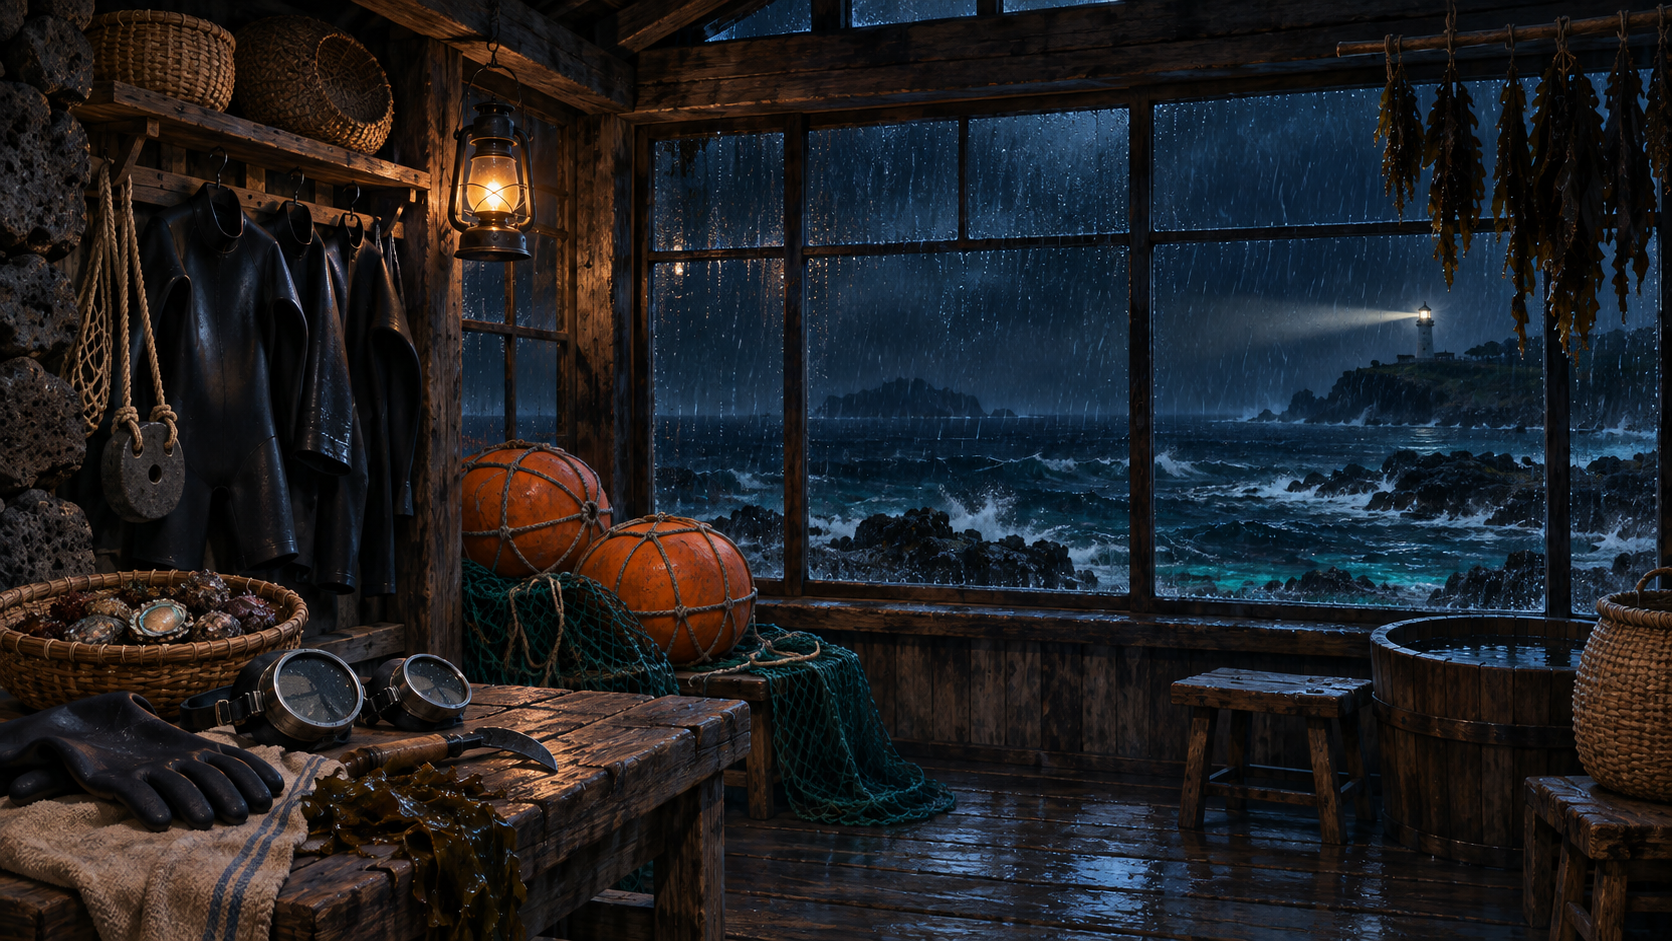
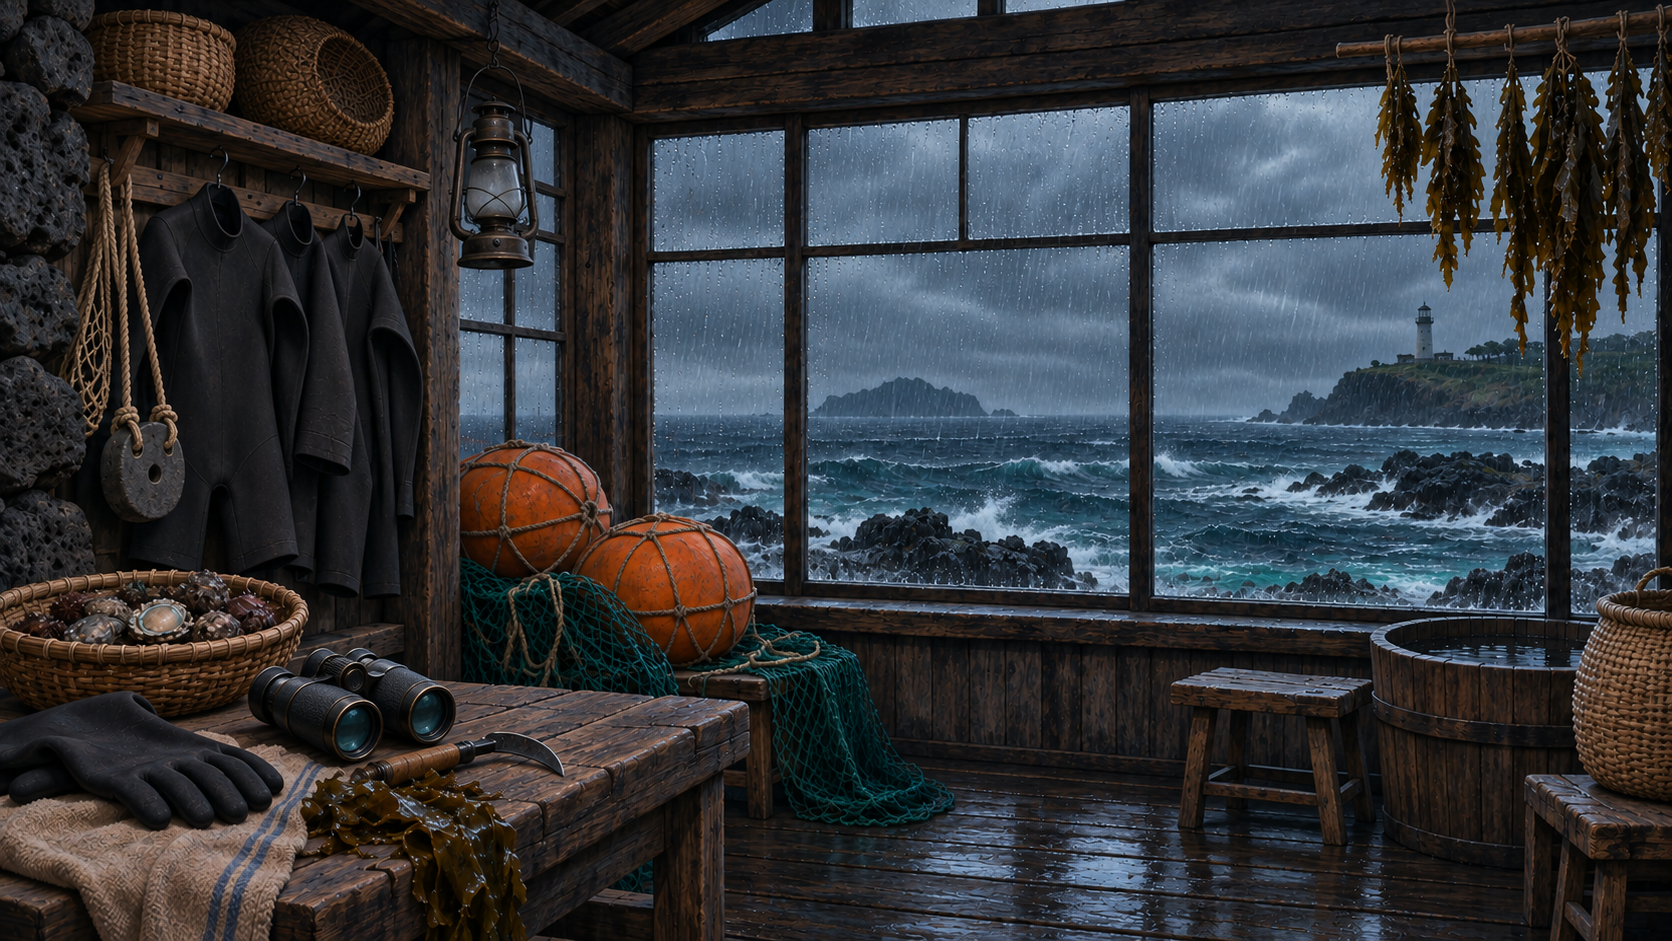
feat: 마지막 불빛 용의자 반응과 작업장 단서 보강

diff --git a/js/scenario-lighthouse.js b/js/scenario-lighthouse.js
@@ -19,10 +19,13 @@ SCENARIOS.lighthouse = {
     oil_spill: { name: '쏟아진 램프 기름', icon: 'can', desc: '램프실 아래 바닥에 기름이 쏟아져 있고, 그 위를 밟고 나간 장화 자국이 있다.' },
     camera: { name: '서준의 카메라', icon: 'camera', desc: '민박 침대 위의 카메라. 메모리 카드에 어젯밤 찍은 사진이 남아 있다.' },
     shadow_photo: { name: '두 그림자 사진', icon: 'photo', desc: '밤 11시 40분, 불 꺼진 등대 꼭대기에 사람 그림자 두 개가 찍혀 있다. 한 명은 체격이 다부지다.' },
-    rope: { name: '낯선 밧줄', icon: 'rope', desc: '선착장 기둥에 감긴 파란 합성 밧줄. 섬 어선은 마 밧줄만 쓴다. 바다 쪽 끝이 잘려 있다.' },
+    rope: { name: '낯선 밧줄', icon: 'rope', desc: '선착장 기둥에 감긴 파란 합성 밧줄. 섬 어선은 마 밧줄만 쓴다. 물때 하나 없는 새것이고, 바다 쪽 끝이 칼로 잘려 있다.' },
     fuel_can: { name: '외지 연료통', icon: 'can', desc: '방수포 아래 숨겨진 연료통 여섯 개. 섬에서 쓰지 않는 상표이고 겉에 외국어가 적혀 있다.' },
-    binoculars: { name: '창가의 쌍안경', icon: 'lens', desc: '해녀 작업장 탁자의 쌍안경. 등대 앞 암초 쪽 바다에 초점이 맞춰져 있다.' },
-    signal: { name: '해녀의 증언', icon: 'voice', desc: '"그날 밤 앞바다에서 불빛이 세 번씩 깜박였어. 만석이 영감이 그 배를 지켜봐 달라고 부탁했지."' },
+    binoculars: { name: '탁자 위 쌍안경', icon: 'lens', desc: '해녀 작업장 탁자의 쌍안경. 등대 앞 암초 쪽 바다에 초점이 맞춰져 있다.' },
+    signal: { name: '해녀의 증언', icon: 'voice', desc: '"그날 밤 앞바다에서 불빛이 세 번씩 깜박였어. 만석 영감이 그 배를 지켜봐 달라고 부탁했지."' },
+    dry_gear: { name: '말라 있는 물질 도구', icon: 'glove', desc: '물옷과 테왁, 망사리가 바싹 말라 있다. 어제는 아무도 물질을 나가지 않았다.' },
+    lantern: { name: '바닥난 랜턴', icon: 'lamp', desc: '작업장 랜턴의 기름이 바닥나 있다. 누군가 밤새 이곳에 있었다.' },
+    old_accident: { name: '30년 전 사고', icon: 'voice', desc: '30년 전 문정희의 남편이 탄 배가 등대 앞 암초에 걸렸다. 강만석의 신고가 늦었다는 소문이 돌았다.' },
     resort_plan: { name: '리조트 조감도', icon: 'doc', desc: '등대 자리에 호텔이 그려진 "해무도 리조트" 조감도. 투자 유치 기한은 이번 달 말이다.' },
     oily_boots: { name: '기름 묻은 장화', icon: 'shoe', desc: '이장 집 현관의 장화. 밑창에 등대 램프 기름이 묻어 있다.' },
     torn_page: { name: '찢긴 일지 페이지', icon: 'doc', desc: '"덕배가 부른 배가 15일 밤 들어온다. 리조트 돈을 마련하려는 밀수선이다. 불이 꺼지면 암초 때문에 들어오지 못한다." 15일은 사건 당일이다.' },
@@ -43,7 +46,7 @@ SCENARIOS.lighthouse = {
       id: 'dock', name: '선착장', art: 'dock',
       desc: '섬의 하나뿐인 선착장이다. 파도가 방파제를 넘어온다.',
       spots: [
-        { id: 'rope', label: '밧줄', x: 38, y: 85, medium: true, clue: 'rope', text: '기둥에 굵은 파란 합성 밧줄이 감겨 있다. 섬 어선은 모두 마 밧줄을 쓴다. 바다 쪽 끝은 칼로 자른 듯 깨끗하다.' },
+        { id: 'rope', label: '밧줄', x: 38, y: 85, medium: true, clue: 'rope', text: '기둥에 굵은 파란 합성 밧줄이 감겨 있다. 섬 어선은 모두 마 밧줄을 쓴다. 물때 하나 없는 새 밧줄이다. 바다 쪽 끝은 칼로 자른 듯 깨끗하다.' },
         { id: 'fuel', label: '방수포', x: 14, y: 72, medium: true, clue: 'fuel_can', text: '방수포 아래 연료통 여섯 개가 숨겨져 있다. 섬에서 쓰지 않는 상표이고 겉에 외국어가 적혀 있다.' },
         { id: 'boat', label: '어선', x: 61, y: 57, medium: true, text: '마을 어선이다. 폭풍에 대비해 단단히 묶여 있다.' },
       ],
@@ -63,7 +66,8 @@ SCENARIOS.lighthouse = {
       spots: [
         { id: 'window', label: '창문', x: 68, y: 35, medium: true, text: '창으로 등대와 그 앞 암초가 한눈에 보인다. 등대 불이 없으면 밤에는 암초가 보이지 않는다.' },
         { id: 'binoculars', label: '쌍안경', x: 26, y: 76, medium: true, clue: 'binoculars', text: '탁자 위에 쌍안경이 놓여 있다. 초점이 등대 앞 암초 쪽 바다에 맞춰져 있다.' },
-        { id: 'gear', label: '물질 도구', x: 25, y: 44, medium: true, text: '테왁과 망사리가 바싹 말라 있다. 어제는 아무도 물질을 나가지 않았다.' },
+        { id: 'lantern', label: '랜턴', x: 29, y: 18, medium: true, clue: 'lantern', text: '기둥에 걸린 랜턴이다. 기름이 바닥나 있다. 밤새 켜 두었던 모양이다.' },
+        { id: 'gear', label: '물질 도구', x: 25, y: 44, medium: true, clue: 'dry_gear', text: '물옷과 테왁, 망사리가 바싹 말라 있다. 어제는 아무도 물질을 나가지 않았다.' },
       ],
     },
     {
@@ -86,8 +90,11 @@ SCENARIOS.lighthouse = {
       reactions: {
         torn_log: { text: '…맞아요, 제가 찢었어요. 할아버지가 일부러 불을 껐다는 게 알려지면 할아버지가 나쁜 사람이 될 것 같았어요. 여기요, 읽어 보세요.', gives: 'torn_page' },
         lamp_valve: { text: '할아버지는 40년 동안 한 번도 불을 끈 적이 없어요. 그런데 왜 그날만….' },
-        resort_plan: { text: '이장님은 할아버지가 등대를 내놓지 않는다고 매일 찾아왔어요.' },
-        shadow_photo: { text: '두 사람이요? 그럼 할아버지 혼자가 아니었다는 거죠?' },
+        resort_plan: { text: '이장님은 매일 찾아왔어요. 땅을 팔면 육지 대학 학비도 해결된다고요. 할아버지는 등대를 지킬 사람이 저밖에 없다고 하셨지만… 솔깃했던 건 사실이에요.' },
+        broken_rail: { text: '그날 저녁 할아버지랑 크게 다투고 나올 때까진 멀쩡했어요. …정말이에요. 문을 세게 닫고 나오긴 했지만요.' },
+        oil_spill: { text: '그 장화 자국이요? 제 건 아니에요. 저는 그날 운동화를 신었어요.' },
+        shadow_photo: { text: '두 사람이요? 그럼 할아버지 혼자가 아니었다는 거죠? …저는 그 전에 나왔어요.' },
+        camera: { text: '그 사람 카메라를 왜 저한테…. 등대 구경시켜 준 것뿐이에요. 할아버지는 그것도 싫어하셨지만요.' },
       },
       fallback: '모르겠어요. 그냥 내버려 두세요.',
       pressed: '왜 자꾸 그걸 들이미세요? 제가 할아버지를 어떻게 했다고 생각하시는 거예요?',
@@ -96,15 +103,19 @@ SCENARIOS.lighthouse = {
       id: 'deokbae', name: '오덕배', role: '이장',
       portrait: { image: 'assets/scenario3/characters/deokbae.png' },
       intro: '섬의 이장이다. 사람 좋은 웃음을 짓지만 눈은 웃지 않는다.',
-      talk: '만석이 형님이 연세가 있으니 계단에서 발을 헛디딘 거지요. 리조트요? 섬 살리자는 일에 반대한 건 형님 하나였소. 그렇다고 사람을 해칠 리가 있나.',
+      talk: '만석이 형님이 연세가 있으니 계단에서 발을 헛디딘 거지요. 이장으로서 안타까울 따름이오.',
       reactions: {
-        resort_plan: { text: '젊은 애들은 다 떠나는데 뭐라도 해야 할 것 아니오.' },
+        resort_plan: { text: '젊은 애들은 다 떠나는데 뭐라도 해야 할 것 아니오. 반대한 건 형님 하나였소. 그렇다고 사람을 해칠 리가 있나.' },
         oily_boots: { text: '그건… 우리 집 경운기 기름이오. 등대랑은 상관없소.', again: '경운기 기름이라 하지 않았소! …냄새까지 맡아 봤단 말이오?' },
         oil_spill: { text: '등대 바닥에 기름이야 늘 있지. 형님이 칠칠치 못해서.' },
+        lamp_valve: { text: '밸브가 잠겨 있었다고? …형님이 직접 잠갔겠지. 난 그날 등대 근처에도 안 갔소.', again: '안 갔다니까! …그, 그 밸브가 뻑뻑해서 손으로는 잘 안 열린다는 것도 난 모르오.' },
         rope: { text: '외지 배가 폭풍을 피해 잠깐 묶었다 간 거겠지.' },
         fuel_can: { text: '그건 리조트 공사에 쓰려고 들여온 거요. 문제 있소?' },
         signal: { text: '불빛? 폭풍 속에 고깃배 하나가 헤맨 거겠지.' },
+        binoculars: { text: '정희 그 양반, 30년 전 남편 잃고 형님을 평생 원망했소. 그 쌍안경으로 뭘 봤는지 물어보시오.', gives: 'old_accident' },
+        camera: { text: '외지 사진쟁이가 손녀랑 붙어 다녀서 형님 속깨나 끓였지. 그 사진쟁이한테나 물어보시오.' },
         shadow_photo: { text: '그 시간엔 집에서 자고 있었소. 사진이 이렇게 흐린데 누군지 어떻게 아오.' },
+        torn_log: { text: '"그 배"? …폭풍에 무슨 배가 온다고. 형님이 요즘 정신이 오락가락했소.', again: '배 얘기는 그만하시오! …그나저나 찢긴 장은 어디 있소? 누가 가져갔소?' },
         torn_page: { text: '…형님이 노망이 나서 헛소리를 쓴 거요. 밀수선이라니.' },
       },
       fallback: '이장으로서 할 말은 다 했소.',
@@ -114,15 +125,21 @@ SCENARIOS.lighthouse = {
       id: 'jeonghui', name: '문정희', role: '해녀',
       portrait: { image: 'assets/scenario3/characters/jeonghui.png' },
       intro: '50년 동안 물질을 해 온 해녀다. 등대지기와 앙숙으로 소문났다.',
-      talk: '그 영감이랑은 평생 싸웠지. 그래도 죽으라고 빈 적은 없어. 어젯밤 등대 근처에 있었던 건 맞지만 안에는 안 들어갔어.',
+      talk: '만석 영감이랑은 평생 싸웠지. 그래도 죽으라고 빈 적은 없어. 어제는 물질 마치고 일찍 잤어.',
       reactions: {
-        fuel_can: { text: '그 통… 맞아, 그날 밤 그 배에서 내린 거야. 앞바다에서 불빛이 세 번씩 깜박였어. 영감이 그 배를 지켜봐 달라고 부탁해서 등대 아래에서 보고 있었지.', gives: 'signal' },
-        binoculars: { text: '그래, 내 거야. 그날 밤 바다를 보고 있었어. 선착장에 뭐가 남았는지는 봤나?' },
-        rope: { text: '섬 사람은 그런 밧줄 안 써. 외지 배야.' },
+        fuel_can: { text: '그 통… 지난달에 그 배가 내려놓고 간 거야. 그날 해 질 녘에 만석 영감이 찾아와서 오늘 밤 그 배가 또 온다고, 지켜봐 달라더군. 밤에 앞바다에서 불빛이 세 번씩 깜박였어. 큰 배는 암초 앞에서 멈춰 섰지.', gives: 'signal' },
+        binoculars: { text: '그래, 내 거야. 그날 밤 여기서 바다를 보고 있었어. 선착장에 뭐가 남았는지는 봤나?' },
+        dry_gear: { text: '…폭풍에 물질은 무슨. 그래, 둘러댔어. 종일 여기 있었어. 해 질 녘에 만석 영감이 왔을 때도.', again: '말했잖아! 더 캐묻지 마.' },
+        lantern: { text: '밤새 바다를 봤으니까. 영감이 부탁한 일이야. …더는 묻지 마.' },
+        lamp_valve: { text: '불이 꺼지는 건 봤어. 누가 껐는지는… 영감 체면도 있고, 내가 말할 일이 아니야.' },
+        broken_rail: { text: '불이 꺼지고 나서 걱정이 돼서 등대 아래까지 갔어. 위에서 고함 소리가 났어. 바람 소리인 줄 알았지. …올라가 보진 않았어.' },
+        shadow_photo: { text: '다부진 체격이면 나라는 거야? 물질 50년이면 어깨가 이렇게 돼. …어두워서 누군지는 못 봤어.' },
+        rope: { text: '섬 사람은 그런 밧줄 안 써. 외지 배야. 난 몰라.', again: '…그래, 선착장에 있었어! 불 꺼지고 작은 보트 하나가 붙더니, 날 보고는 밧줄을 끊고 달아났어. 이제 됐어?' },
         torn_log: { text: '그 영감, 일지 하나는 꼬박꼬박 썼지.' },
+        old_accident: { text: '…그 얘길 누가 했어? 덕배지? 그래, 평생 원망했어. 그렇다고 죽이진 않아!' },
       },
       fallback: '그런 건 몰라.',
-      pressed: '또 그거야? 내가 그 영감을 밀었다고 보는 거지?',
+      pressed: '또 그거야? 내가 만석 영감을 밀었다고 보는 거지?',
     },
     {
       id: 'seojun', name: '서준', role: '사진작가',
@@ -130,9 +147,11 @@ SCENARIOS.lighthouse = {
       intro: '폭풍 사진을 찍으러 온 외지 사진작가다. 카메라 가방을 끌어안고 있다.',
       talk: '사흘 전에 등대에 몰래 들어간 건 사과드릴게요. 하지만 어젯밤에는 민박 창문에서 사진만 찍었어요.',
       reactions: {
-        camera: { text: '…보여 드릴게요. 11시 40분쯤 불이 꺼지고 나서 찍은 거예요. 꼭대기에 사람이 둘 있었어요. 무서워서 말을 못 했어요.', gives: 'shadow_photo' },
+        camera: { text: '…보여 드릴게요. 11시 40분쯤 불이 꺼지고 나서 찍은 거예요. 꼭대기에 사람이 둘 있었어요. 처음엔 그중 하나가 하늘 씨일까 봐 말을 못 했어요.', gives: 'shadow_photo' },
+        shadow_photo: { text: '저는 그 시간에 민박에 있었어요. 이 사진이 증거예요.', again: '…잡지사에서 연락이 오긴 했어요. 그래도 안 팔았어요.' },
+        broken_rail: { text: '그 난간… 사흘 전에 하늘 씨가 등대를 구경시켜 줬다가 할아버지께 들켰어요. 끌려 나가면서 붙잡았던 데예요. 그땐 부러지지 않았어요. 다시는 하늘 씨를 만나지 말라고 하셨죠.' },
         lamp_valve: { text: '제가 들어갔을 때는 불이 잘 켜져 있었어요. 밸브에는 손도 안 댔어요.' },
-        torn_log: { text: '일지는 본 적 없어요.' },
+        torn_log: { text: '일지는 본 적 없어요. …설마 하늘 씨가 뭘 숨긴 건 아니죠?' },
       },
       fallback: '그건 잘 모르겠어요.',
       pressed: '그건 아까 말씀드렸잖아요. 외지 사람이라서 저부터 의심하시는 거예요?',
@@ -150,7 +169,7 @@ SCENARIOS.lighthouse = {
         { id: 'mansuk', label: '강만석' }, { id: 'hanul', label: '강하늘' }, { id: 'deokbae', label: '오덕배' }, { id: 'jeonghui', label: '문정희' }, { id: 'seojun', label: '서준' },
       ] },
       { key: 'motive', label: '동기', options: [
-        { id: 'leave', label: '섬을 떠나려고' }, { id: 'resort', label: '등대 철거 반대를 꺾으려고' }, { id: 'smuggle', label: '불을 다시 켜 밀수선을 들이려고' }, { id: 'grudge', label: '오랜 다툼 끝의 원한' }, { id: 'scoop', label: '특종 사진을 얻으려고' },
+        { id: 'leave', label: '섬을 떠나려고' }, { id: 'smuggle', label: '밀수선을 섬에 들이려고' }, { id: 'grudge', label: '남편을 잃은 원한 때문에' }, { id: 'romance', label: '사랑을 지키려고' },
       ] },
     ],
     answer: { culprit: 'deokbae', lights: 'mansuk', motive: 'smuggle' },
@@ -160,7 +179,8 @@ SCENARIOS.lighthouse = {
     success: [
       '오덕배는 한참 동안 장화를 내려다보다가 입을 열었다.',
       '그 밤 섬으로 들어오려던 배는 리조트 자금을 마련하려고 오덕배가 불러들인 밀수선이었다. 등대 불이 꺼지면 배는 암초 때문에 섬에 다가올 수 없었다.',
-      '불을 끈 사람은 강만석 자신이었다. 오덕배는 불을 다시 켜려고 등대에 올라갔고, 몸싸움 끝에 그를 계단 아래로 밀었다.',
+      '큰 배 대신 작은 보트 하나가 선착장에 닿았지만, 그곳을 지키던 문정희를 보고 밧줄을 끊고 달아났다.',
+      '불을 끈 사람은 강만석 자신이었다. 오덕배는 불을 다시 켜려고 등대에 올라갔고, 몸싸움 끝에 그를 계단 아래로 밀었다. 겁에 질린 그는 불을 다시 켜지 못한 채 등대를 빠져나왔다.',
       '배편이 다시 열린 저녁, 해무도 등대에 다시 불이 들어왔다.',
     ],
     fail: [
